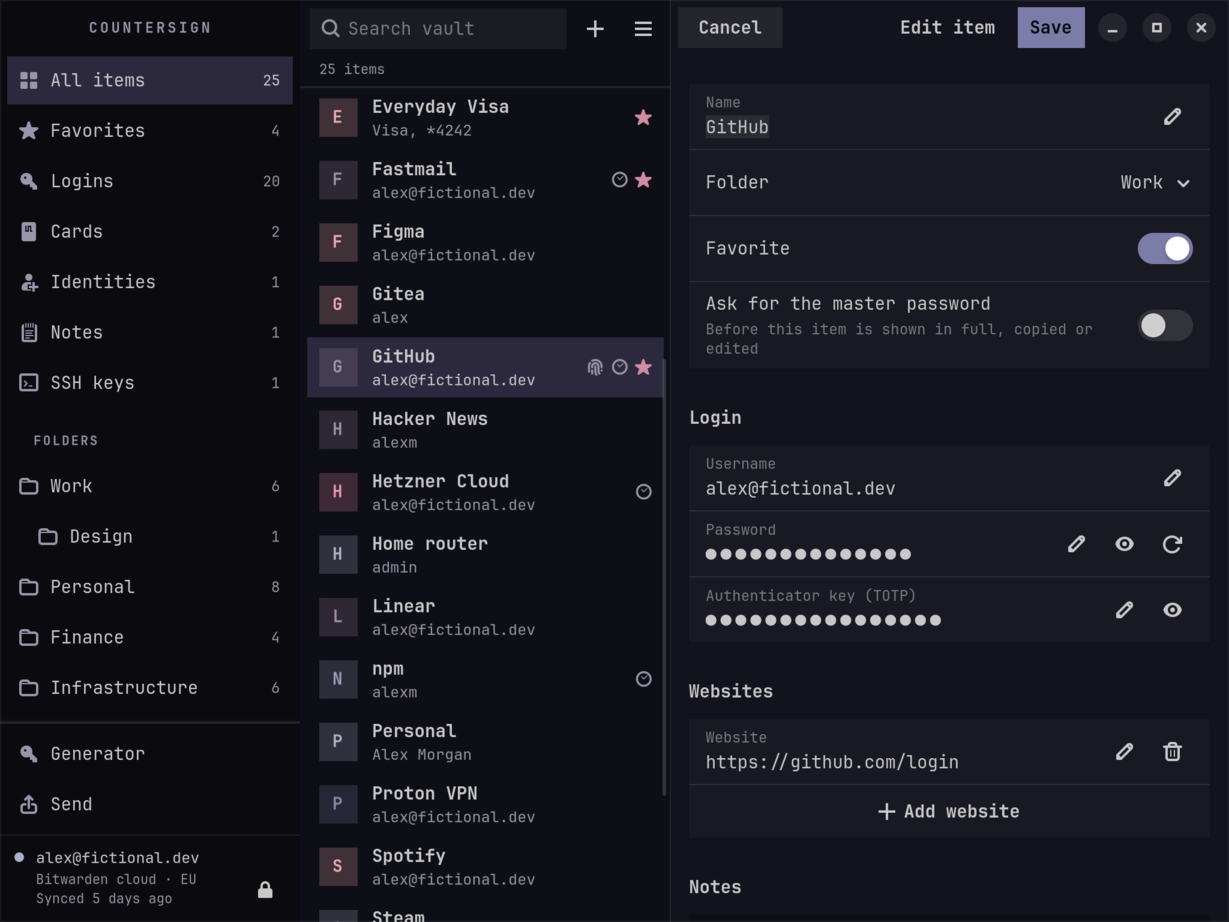
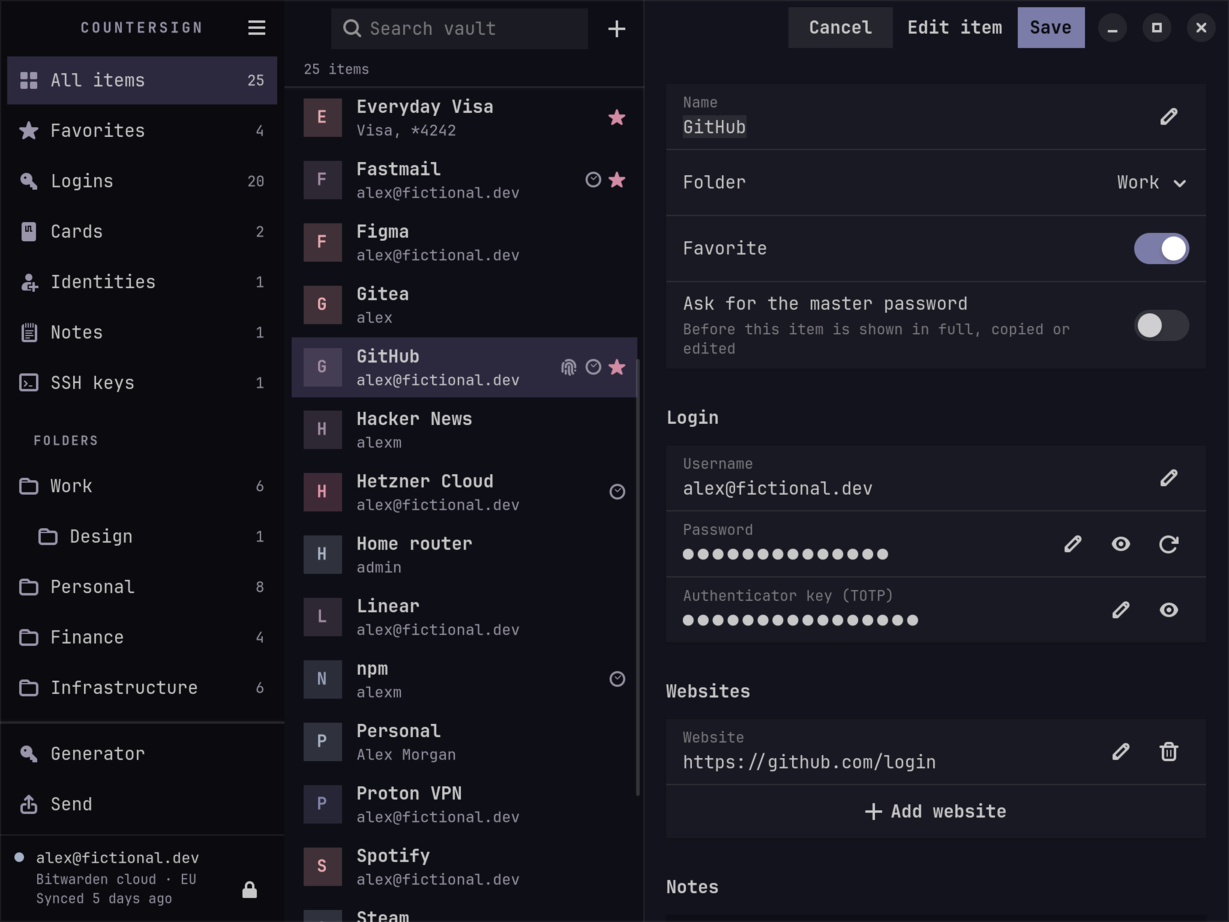
Retake the screenshots and describe the main menu's place

diff --git a/docs/USAGE.md b/docs/USAGE.md
@@ -56,10 +56,12 @@ main window instead.
 ## The main window
 
 The sidebar filters the vault: all items, favorites, each item type, your
-folders, organization collections, the archive and the trash. Folders nest as they do in
-Bitwarden: a folder named `Work/Clients` shows as **Clients** under **Work**,
-when a folder named `Work` exists. The password generator and Send stay at
-the foot of the sidebar.
+folders, organization collections, the archive and the trash. Folders nest
+as they do in Bitwarden: a folder named `Work/Clients` shows as **Clients**
+under **Work**, when a folder named `Work` exists. The password generator and
+Send stay at the foot of the sidebar. The main menu is the **≡** button beside
+the name at the top of the sidebar; when the window is too narrow for the
+sidebar, it moves next to the search box.
 
 Search covers what the sidebar shows. When a search in a folder or a type
 finds nothing, **Search all items** widens it.
@@ -132,8 +134,8 @@ is not cleared.
 - While you edit, syncs leave your draft alone. Quitting asks before it
   throws your edits away. Locking throws them away without asking.
 - **More actions** are in the **⋮** menu: add or remove a favorite, **Add
-  attachment…**, **Move to organization…**, **Archive** and **Move to trash**. Moving to
-  an organization needs at least one collection and cannot be undone from
+  attachment…**, **Move to organization…**, **Archive** and **Move to
+  trash**. Moving to an organization needs at least one collection and cannot be undone from
   Countersign. Attachments need Bitwarden Premium. **Undo**, in the message
   that follows, takes an item back out of the trash or the archive.
 - **Archive.** Bitwarden keeps archived items out of the vault, so they do

diff --git a/README.md b/README.md
@@ -19,8 +19,8 @@ interface and the desktop integration around it.
 - **Quick access.** A launcher-style overlay: type a few letters, press
   Enter, and the password is on the clipboard. Recent items come first.
 - **The whole vault.** Logins, cards, identities, notes and SSH keys, with
-  folders, organization collections, favorites, archive and trash, and a password and
-  passphrase generator. Secrets stay masked until you
+  folders, organization collections, favorites, archive and trash, and a
+  password and passphrase generator. Secrets stay masked until you
   reveal them. Verification codes count down live.
 - **Editing.** Create and edit logins, cards, identities and notes, with
   websites and custom fields; SSH keys keep their key and the rest can be
